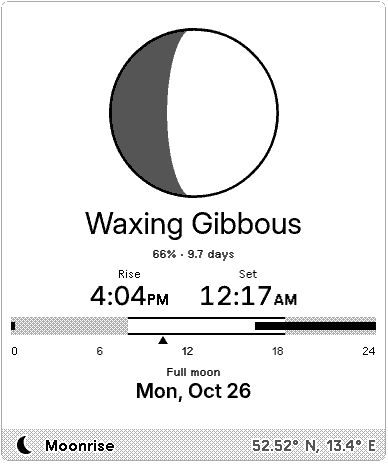
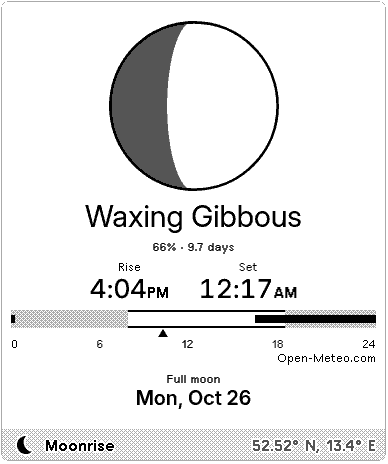
Credit Open-Meteo on screen and shorten the recipe texts
Open-Meteo's CC BY 4.0 licence asks for credit next to its data, so
"Open-Meteo.com" now sits under the day bar whenever its sunrise and sunset
shade the night; without that data the credit goes too. A test covers both.

The overview drops to 106 words (lint's minimum is 100) and the setting
descriptions follow Weather Curve's short style. README screenshots show
the credit.

diff --git a/tests/plugin_spec.rb b/tests/plugin_spec.rb
@@ -95,6 +95,16 @@ RSpec.describe 'Moonrise & Moonset' do
     end
   end
 
+  it 'credits Open-Meteo next to the night it draws' do
+    %w[full half_horizontal half_vertical].each do |view|
+      screen = trmnl.render(view:, device: 'og_plus', now:, mocks:, variables:, custom_fields:)
+      expect(screen.text).to include('Open-Meteo.com')
+    end
+    down = trmnl.render(view: 'full', device: 'og_plus', now:, variables:, custom_fields:,
+                        mocks: { 'https://api.open-meteo.com/*' => { status: 500, body: '' } })
+    expect(down.text).not_to include('Open-Meteo')
+  end
+
   it 'still draws the moon without the sun when Open-Meteo is down' do
     m = moon(mocks: { 'https://api.open-meteo.com/*' => { status: 500, body: '' } })
     expect(m['rise']['t24']).to eq('16:04')
